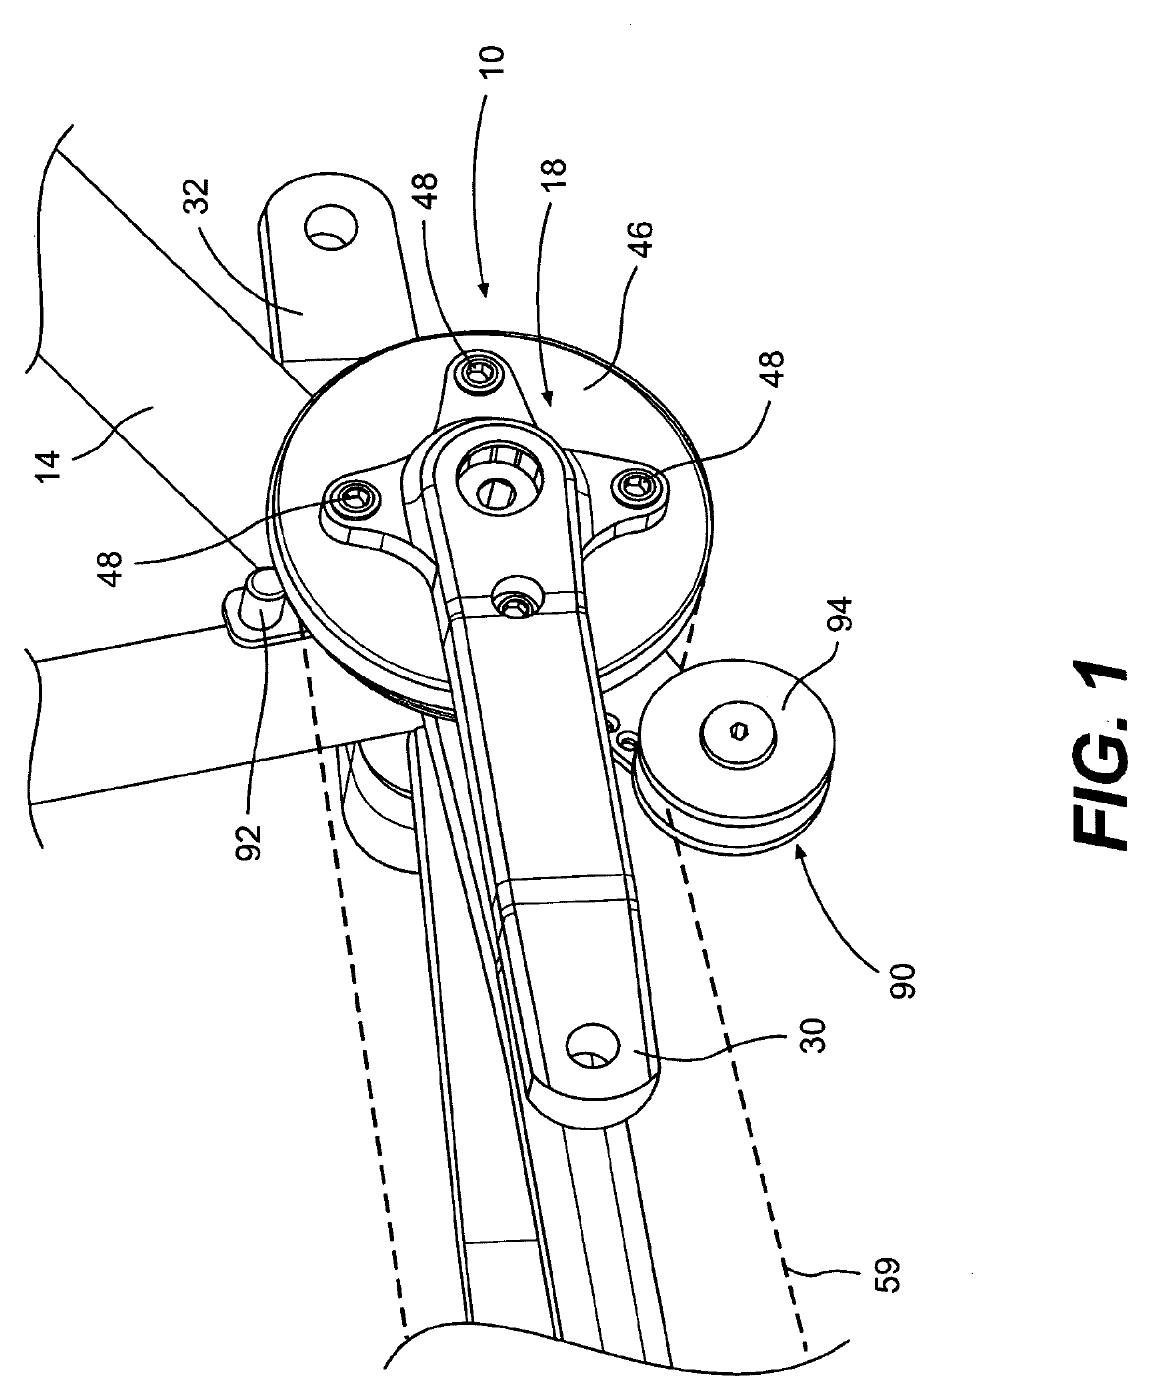
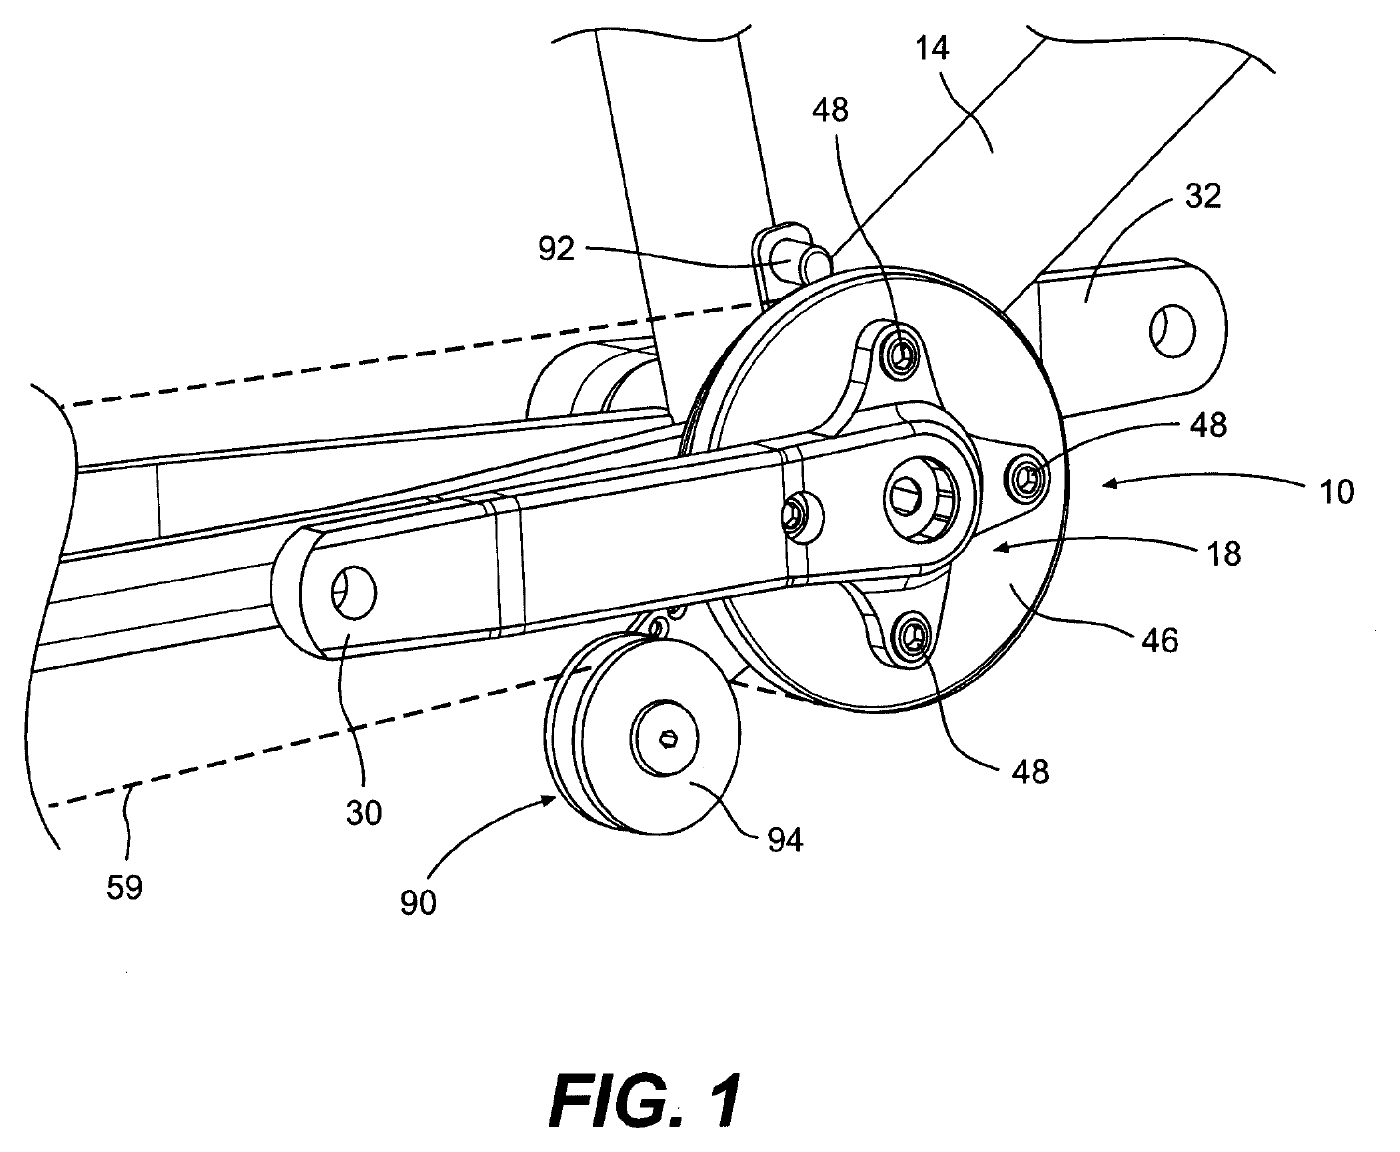
Add searchUrl override field; rotate HammerSchmidt figure 90deg CW
New optional D field, searchUrl: when set, it replaces the card's
auto-built "Search related patents on Google Patents" link with a
specific URL. Wired in ahead of every other branch of that link's
logic (nums/num/non-US jurisdiction), since it's a deliberate
editorial choice, not something a numbered-patent addition later
should silently override.

Applied to the JBX1 "Breezer 1" entry (num:null, st:"unknown"): its
auto-built query would search on "Joe Breeze" (how he's credited in
`a`) rather than his full legal name, so it was pointed instead at
https://patents.google.com/?inventor=Joseph+T.+Breeze directly.

Rotated pictures/US7712566B2.png (Schlumpf planetary crank drive ->
SRAM HammerSchmidt, US 7,712,566) 90 degrees clockwise -- the source
drawing sheet was sideways; verified the result reads right-side up
before committing.

Documented searchUrl in CLAUDE.md's D schema block.

Claude-Session: https://claude.ai/code/session_016jsWfaWRTj8nL3NFjZgJTX

diff --git a/index.html b/index.html
@@ -1037,7 +1037,7 @@ const D = [
   {"y":2022,"g":null,"t":{"en":"Machine-learning suspension control (application)","fr":"Contrôle de suspension par apprentissage automatique (demande)"},"a":"Shimano","num":null,"cat":"emtb","st":"pending","exp":null,"b":[],"who":["Shimano"],"conf":"v","s":{"en":"Published January 2024: sensors for speed, cadence, torque, tire pressure, braking and attitude — plus a forward-facing camera — feeding a trained model that adjusts suspension via motors and solenoids in real time.","fr":"Publiée en janvier 2024 : des capteurs de vitesse, cadence, couple, pression de pneu, freinage et assiette — plus une caméra orientée vers l'avant — alimentant un modèle entraîné qui ajuste la suspension via des moteurs et solénoïdes en temps réel."},"w":{"en":"The damping tune as a neural network. When the algorithm is the invention, the patent office becomes the new kingmaker.","fr":"Le réglage d'amortissement comme réseau de neurones. Quand l'algorithme est l'invention, l'office des brevets devient le nouveau faiseur de rois."}},
   {"y":2024,"g":2025,"t":{"en":"Wheel motor-brake unit (US 12,491,966)","fr":"Unité moteur-frein de roue (US 12,491,966)"},"a":"Mikel Fauri / Porsche AG","num":"12491966","cat":"emtb","st":"active","exp":2044,"j":"DE","b":["priorart"],"who":["Porsche"],"conf":"v","s":{"en":"A disk-rotor motor, planetary transmission and disc brake packaged into one wheel hub with regenerative braking — released publicly as Porsche and PON wound down their eMTB project. Inventor Mikel Fauri has since become Head of Electric Propulsion at McLaren.","fr":"Un moteur à rotor disque, une transmission planétaire et un frein à disque intégrés dans un seul moyeu de roue avec freinage régénératif — rendu public alors que Porsche et PON mettaient fin à leur projet de VTTAE. L'inventeur Mikel Fauri est depuis devenu responsable de la propulsion électrique chez McLaren."},"w":{"en":"Ferdinand Porsche built one of the first electric bicycles in 1893 and the first wheel-hub motor in 1900. This filing closes a 130-year family loop.","fr":"Ferdinand Porsche a construit l'un des premiers vélos électriques en 1893 et le premier moteur-moyeu de roue en 1900. Ce dépôt boucle une boucle familiale de 130 ans."}},
   {"y":1938,"g":1939,"t":{"en":"Schwinn cantilever frame (US 2,151,533)","fr":"Cadre cantilever Schwinn (US 2,151,533)"},"a":"Frank W. Schwinn / Arnold, Schwinn & Co.","num":"2151533","cat":"frame","st":"expired","exp":1956,"b":[],"who":["Schwinn","Frank W. Schwinn"],"conf":"v","s":{"en":"A frame construction adding a curved strut from the seat cluster down to the rear axle area, first used on the 1938 Autocycle line and later the Black Phantom and Sting-Ray. Filed the same day as the Spring Fork patent below (March 3, 1938). Pre-1995 US utility patents ran 17 years from grant rather than 20 years from filing, so this one lapsed in 1956.","fr":"Une construction de cadre ajoutant un étrésillon courbe du groupe de selle jusqu'à la zone de l'axe arrière, utilisée d'abord sur la gamme Autocycle de 1938 puis sur le Black Phantom et le Sting-Ray. Déposé le même jour que le brevet de fourche à ressort ci-dessous (3 mars 1938). Les brevets d'utilité américains d'avant 1995 duraient 17 ans à compter de la délivrance plutôt que 20 ans à compter du dépôt, celui-ci s'est donc éteint en 1956."},"img":"pictures/US2151533A.png","imgAlt":{"en":"Sheet 1 of US 2,151,533, showing Fig. 1 (the complete cantilever frame with the curved strut 15 running from the seat cluster to the rear axle area) and Fig. 2 (a detail of the seat-cluster/strut junction), signed by inventor Frank W. Schwinn","fr":"Planche 1 du brevet US 2 151 533, montrant la Fig. 1 (le cadre cantilever complet avec l'étrésillon courbe 15 allant du groupe de selle jusqu'à la zone de l'axe arrière) et la Fig. 2 (un détail de la jonction groupe de selle/étrésillon), signée par l'inventeur Frank W. Schwinn"},"w":{"en":"'Nearly every bicycle manufacturer' copied the cantilever silhouette once the patent expired — a plain, well-documented case of the atlas's own tagline in action, playing out two generations before anything else in this dataset. The atlas's earliest entries otherwise skip straight from 1890s bicycle-mechanics patents to 1970s mountain-bike-specific ones; this fills real ground in between.","fr":"« Presque chaque fabricant de vélos » a copié la silhouette cantilever une fois le brevet expiré — un cas simple et bien documenté du slogan même de cet atlas en action, se déroulant deux générations avant tout autre exemple de ce jeu de données. Les premières fiches de l'atlas passent sinon directement des brevets de mécanique de vélo des années 1890 à ceux spécifiques au VTT des années 1970 ; celle-ci comble un véritable espace entre les deux."}},
-  {"y":1977,"g":null,"t":{"en":"JBX1 \"Breezer 1\" — the frame, not a patent","fr":"JBX1 « Breezer 1 » — le cadre, pas un brevet"},"a":"Joe Breeze (Fairfax, CA)","num":null,"cat":"frame","st":"unknown","exp":null,"b":[],"who":["Joe Breeze"],"conf":"v","s":{"en":"Hand-built by Joe Breeze in 1977, the JBX1 — later called the \"Breezer 1\" — was the first bicycle frame purpose-designed for off-road riding rather than a converted cruiser or road frame. Built for the Repack downhill races on Mount Tamalpais, it replaced the balloon-tire \"klunkers\" mountain bike racers had been adapting from 1930s-40s cruisers, using period components (Araya 26in steel rims, Phil Wood hubs, SunTour derailleurs, Dia-Compe brakes, motorcycle-derived riser bars and Magura levers). Breeze completed nine more Series I frames by early 1978. No patent was ever filed on the frame itself; Breezer #1 is held in the Smithsonian Institution's National Museum of American History.","fr":"Fabriqué à la main par Joe Breeze en 1977, le JBX1 — appelé plus tard « Breezer 1 » — fut le premier cadre de vélo conçu spécifiquement pour la pratique hors route plutôt qu'un cadre de cruiser ou de route converti. Construit pour les courses de descente Repack sur le mont Tamalpais, il a remplacé les « klunkers » à pneus ballon que les coureurs de vélo tout-terrain adaptaient jusque-là à partir de cruisers des années 1930-40, avec des composants d'époque (jantes acier Araya 26 po, moyeux Phil Wood, dérailleurs SunTour, freins Dia-Compe, guidon relevé et leviers Magura d'origine moto). Breeze a réalisé neuf autres cadres de la Série I au début de 1978. Aucun brevet n'a jamais été déposé sur le cadre lui-même ; le Breezer n°1 est conservé au National Museum of American History de la Smithsonian Institution."},"w":{"en":"The ancestor object every patent in this atlas's frame, suspension, and drivetrain categories ultimately descends from — the moment mountain biking became a purpose-built category rather than a set of modifications to an existing bike. The sport it launched went from a Marin County pastime to a UCI-sanctioned World Championship in 1990 (Durango, Colorado) and an Olympic discipline at the 1996 Atlanta Games in under twenty years.","fr":"L'objet ancêtre dont descendent en dernière analyse tous les brevets des catégories cadre, suspension et transmission de cet atlas — le moment où le VTT est devenu une catégorie conçue en tant que telle plutôt qu'un ensemble de modifications apportées à un vélo existant. Le sport qu'il a lancé est passé d'un passe-temps du comté de Marin à un championnat du monde sanctionné par l'UCI en 1990 (Durango, Colorado), puis à une discipline olympique aux Jeux d'Atlanta en 1996, en moins de vingt ans."}},
+{"y": 1977, "g": null, "t": {"en": "JBX1 \"Breezer 1\" — the frame, not a patent", "fr": "JBX1 « Breezer 1 » — le cadre, pas un brevet"}, "a": "Joe Breeze (Fairfax, CA)", "num": null, "cat": "frame", "st": "unknown", "exp": null, "b": [], "who": ["Joe Breeze"], "conf": "v", "s": {"en": "Hand-built by Joe Breeze in 1977, the JBX1 — later called the \"Breezer 1\" — was the first bicycle frame purpose-designed for off-road riding rather than a converted cruiser or road frame. Built for the Repack downhill races on Mount Tamalpais, it replaced the balloon-tire \"klunkers\" mountain bike racers had been adapting from 1930s-40s cruisers, using period components (Araya 26in steel rims, Phil Wood hubs, SunTour derailleurs, Dia-Compe brakes, motorcycle-derived riser bars and Magura levers). Breeze completed nine more Series I frames by early 1978. No patent was ever filed on the frame itself; Breezer #1 is held in the Smithsonian Institution's National Museum of American History.", "fr": "Fabriqué à la main par Joe Breeze en 1977, le JBX1 — appelé plus tard « Breezer 1 » — fut le premier cadre de vélo conçu spécifiquement pour la pratique hors route plutôt qu'un cadre de cruiser ou de route converti. Construit pour les courses de descente Repack sur le mont Tamalpais, il a remplacé les « klunkers » à pneus ballon que les coureurs de vélo tout-terrain adaptaient jusque-là à partir de cruisers des années 1930-40, avec des composants d'époque (jantes acier Araya 26 po, moyeux Phil Wood, dérailleurs SunTour, freins Dia-Compe, guidon relevé et leviers Magura d'origine moto). Breeze a réalisé neuf autres cadres de la Série I au début de 1978. Aucun brevet n'a jamais été déposé sur le cadre lui-même ; le Breezer n°1 est conservé au National Museum of American History de la Smithsonian Institution."}, "w": {"en": "The ancestor object every patent in this atlas's frame, suspension, and drivetrain categories ultimately descends from — the moment mountain biking became a purpose-built category rather than a set of modifications to an existing bike. The sport it launched went from a Marin County pastime to a UCI-sanctioned World Championship in 1990 (Durango, Colorado) and an Olympic discipline at the 1996 Atlanta Games in under twenty years.", "fr": "L'objet ancêtre dont descendent en dernière analyse tous les brevets des catégories cadre, suspension et transmission de cet atlas — le moment où le VTT est devenu une catégorie conçue en tant que telle plutôt qu'un ensemble de modifications apportées à un vélo existant. Le sport qu'il a lancé est passé d'un passe-temps du comté de Marin à un championnat du monde sanctionné par l'UCI en 1990 (Durango, Colorado), puis à une discipline olympique aux Jeux d'Atlanta en 1996, en moins de vingt ans."}, "searchUrl": "https://patents.google.com/?inventor=Joseph+T.+Breeze"},
   {"y":1983,"g":1985,"t":{"en":"Cannondale Optimum Oval Seatstays (US 4,513,985)","fr":"Haubans ovales optimisés Cannondale (US 4 513 985)"},"a":"David R. Graham / Cannondale Corporation","num":"4513985","cat":"frame","st":"expired","exp":2002,"b":[],"who":["Cannondale"],"conf":"v","img":"pictures/US4513985A.png","imgAlt":{"en":"Fig. 1 and Fig. 2 of US 4,513,985: the oval-cross-section seat stays (14) shown at the seat cluster junction and again near the dropout, with the horizontal diameter (Dh) and vertical diameter (Dv) of the oval called out","fr":"Fig. 1 et Fig. 2 du brevet US 4 513 985 : les haubans à section ovale (14) représentés à la jonction du point d'ancrage de la selle puis près de la patte de cadre, avec le diamètre horizontal (Dh) et le diamètre vertical (Dv) de l'ovale indiqués"},"s":{"en":"Filed January 6, 1983 and granted April 30, 1985 to Cannondale engineer David R. Graham, this patent claims bicycle seat stays that are oval in cross-section and oriented with the major axis horizontal — a shape that gives relatively greater lateral (side-to-side) stiffness and relatively less vertical (up-down) stiffness than a round tube of the same weight. Figures 1 and 2 show the oval profile carried from the seat cluster down to the dropouts, with horizontal (Dh) and vertical (Dv) diameters called out as separate claim dimensions. Pre-GATT filing, so the 17-year-from-grant term (not filing+20) applies; it lapsed in 2002.","fr":"Déposé le 6 janvier 1983 et délivré le 30 avril 1985 à David R. Graham, ingénieur chez Cannondale, ce brevet revendique des haubans de vélo de section ovale, orientés avec le grand axe à l'horizontale — une forme qui procure une rigidité latérale (côté à côté) relativement plus grande et une rigidité verticale (haut-bas) relativement moindre qu'un tube rond de même poids. Les figures 1 et 2 montrent le profil ovale conservé du point d'ancrage de la selle jusqu'aux pattes de cadre, avec des diamètres horizontal (Dh) et vertical (Dv) définis comme dimensions distinctes de la revendication. Dépôt antérieur au GATT, donc la durée de 17 ans à compter de la délivrance (et non dépôt+20) s'applique ; il s'est éteint en 2002."},"w":{"en":"One of the earliest patented examples of tube-shaping-for-ride-quality in the dataset, years before oversized aluminum tubing became Cannondale's signature. Trading vertical stiffness for lateral stiffness at the seatstay — rather than just making the tube bigger everywhere — is the same design logic that shows up decades later in compliance-tuned carbon stays; this patent is an early, explicit claim on that tradeoff rather than just a marketing description.","fr":"L'un des premiers exemples brevetés de mise en forme de tube pour la qualité de roulage dans cet atlas, des années avant que les tubes en aluminium surdimensionnés ne deviennent la signature de Cannondale. Échanger de la rigidité verticale contre de la rigidité latérale au niveau du hauban — plutôt que simplement agrandir le tube partout — relève de la même logique de conception que l'on retrouve des décennies plus tard dans les haubans carbone à flexion calibrée ; ce brevet en est une revendication précoce et explicite plutôt qu'un simple argument marketing."}},
   {"y":2000,"g":2002,"t":{"en":"Cannondale seat stay tire-clearance frame (US 6,497,427)","fr":"Cadre Cannondale à dégagement de pneu aux haubans (US 6 497 427)"},"a":"Christopher P. D'Alusio & Christopher A. Peck / Cannondale Corporation","num":"6497427","cat":"frame","st":"expired","exp":2020,"b":[],"who":["Cannondale"],"conf":"v","img":"pictures/US6497427B1.png","imgAlt":{"en":"Fig. 2 of US 6,497,427: rear view of the frame's seat stay tubes (32a/32b) converging toward the dropout (26), with the upper gap zone (34a) and lower gap zone (34b) bracketed to show where the minimum tire-clearance distance is measured","fr":"Fig. 2 du brevet US 6 497 427 : vue arrière des tubes de haubans du cadre (32a/32b) convergeant vers la patte de cadre (26), avec la zone de dégagement supérieure (34a) et la zone de dégagement inférieure (34b) indiquées par des accolades montrant où la distance minimale de dégagement du pneu est mesurée"},"s":{"en":"Filed as PCT application PCT/US00/15915 on June 9, 2000 and entering the US national stage in May 2001 (application 09/831,822), this patent claims a mountain bike 'diamond-type' frame whose seat stay tubes are spaced to keep a minimum gap distance of roughly 2 inches between their inner surfaces at the point where they pass the rear tire — specifically for frames built around a single rear disc brake rather than a rim brake, where tire and mud clearance at that pinch point is the practical constraint. The claims also bound the seat stay tubes' stiffness (modulus of elasticity times moment of inertia, roughly 1 to 10 lb×in²) rather than just their shape, tying the tire-clearance dimension to a specific stiffness range. Granted December 24, 2002, matching the grant year in the source description this entry was queued from. Term runs filing (PCT, 2000) + 20 = 2020.","fr":"Déposé comme demande PCT PCT/US00/15915 le 9 juin 2000 et entré en phase nationale américaine en mai 2001 (demande 09/831 822), ce brevet revendique un cadre de VTT de type « diamant » dont les tubes de haubans sont espacés pour maintenir une distance minimale d'environ 2 pouces entre leurs surfaces intérieures au point où ils longent le pneu arrière — spécifiquement pour des cadres conçus autour d'un frein à disque arrière unique plutôt qu'un frein sur jante, où le dégagement au pneu et à la boue à ce point d'étranglement est la contrainte pratique. Les revendications encadrent également la rigidité des tubes de haubans (module d'élasticité multiplié par le moment d'inertie, environ 1 à 10 lb×po²) plutôt que leur seule forme, liant la dimension de dégagement du pneu à une plage de rigidité précise. Délivré le 24 décembre 2002, ce qui correspond à l'année de délivrance de la description source à partir de laquelle cette fiche a été mise en attente. La durée court dépôt (PCT, 2000) + 20 = 2020."},"w":{"en":"A patent squarely about a tolerance, not a shape — proof that 'how much air gap a tire needs past a seat stay' was worth claiming as IP once disc brakes started reshaping rear-triangle geometry around 2000. D'Alusio is a recurring name in this atlas's frame patents — he's also a named inventor on Specialized's SWAT in-frame storage patent below, after later moving there — which makes this an early data point in his frame-engineering track record.","fr":"Un brevet portant carrément sur une tolérance, pas une forme — la preuve que « quel espace d'air un pneu a besoin en passant près d'un hauban » valait la peine d'être revendiqué comme propriété intellectuelle une fois que les freins à disque ont commencé à redessiner la géométrie du triangle arrière vers 2000. D'Alusio est un nom récurrent dans les brevets de cadre de cet atlas — il est aussi inventeur nommé sur le brevet de rangement intégré SWAT de Specialized ci-dessous, après être passé chez ce fabricant — ce qui fait de ce brevet un point de données précoce dans son parcours d'ingénierie de cadre."}},
   {"y":2015,"g":2019,"t":{"en":"Low-BB / short-crank geometry formula (US 10,252,768 + 11,479,322)","fr":"Formule de géométrie boîtier bas / manivelles courtes (US 10,252,768 + 11,479,322)"},"a":"Independent","num":"10252768","cat":"frame","st":"active","exp":2035,"b":["priorart"],"who":[],"conf":"v","img":"pictures/US10252768B2.png","imgAlt":{"en":"Fig. 1A of US 10,252,768: a full bicycle side elevation with the patent's claimed geometry dimensions labeled — bottom-bracket height (BH), the calculated 'practical bracket height' threshold (Bd), wheel radius (R), and crank length (L) measured from the bottom-bracket axle (19)","fr":"Fig. 1A du brevet US 10 252 768 : une élévation latérale complète du vélo avec les dimensions géométriques revendiquées par le brevet — hauteur du boîtier de pédalier (BH), le seuil calculé de « hauteur de boîtier pratique » (Bd), rayon de roue (R), et longueur de manivelle (L) mesurée depuis l'axe du boîtier de pédalier (19)"},"s":{"en":"A granted utility patent claiming mountain bikes by a *formula* — crank length ≤164mm combined with a calculated 'practical bracket height' threshold. A continuation, US 11,479,322 (granted 2022), extends the same formula-based claims.","fr":"Un brevet d'utilité délivré revendiquant les vélos de montagne par une *formule* — une longueur de manivelle ≤ 164 mm combinée à un seuil calculé de « hauteur de boîtier pratique ». Une continuation, US 11,479,322 (délivrée en 2022), étend les mêmes revendications fondées sur la formule."},"w":{"en":"A patent on geometry math itself. Engineers will argue about this one in the comments, which is exactly the point.","fr":"Un brevet sur les mathématiques de la géométrie elles-mêmes. Les ingénieurs vont se disputer à ce sujet dans les commentaires, ce qui est exactement le but."}},
@@ -2090,7 +2090,19 @@ function cardHTML(d){
   const numForUrl = d.num ? (pt==="design" ? `D${d.num}` : d.num) : null;
   const numPretty = numForUrl ? (/^[A-Z]{2}/.test(numForUrl)?numForUrl:`US ${numForUrl.replace(/(\d{1,2})(\d{3})(\d{3})$/,"$1,$2,$3")}`) : null;
   let gp;
-  if(d.nums&&d.nums.length>1){
+  /* d.searchUrl is an OPTIONAL per-entry override for the auto-built search
+     link below — for a no-patent-number entry, the auto-built query (built
+     from the assignee name and title) is a guess at what would actually
+     find the right person/company on Google Patents, and sometimes a
+     better, hand-picked query exists (e.g. an inventor-name search that the
+     auto-built one can't reconstruct on its own). When set, it wins over
+     every branch below, including the num/nums cases, since it's a
+     deliberate editorial choice about where "search related patents"
+     should point, not something to silently override with a numbered
+     patent link if one gets added later without updating this field too. */
+  if(d.searchUrl){
+    gp=`<a class="gp" href="${d.searchUrl}" target="_blank" rel="noopener">${t("searchRelatedGP")}</a>`;
+  } else if(d.nums&&d.nums.length>1){
     const links=d.nums.map(n=>{const{url,label}=numLink(n);return `<a class="gp gp-li" href="${url}" target="_blank" rel="noopener">${label} →</a>`;}).join("");
     gp=`<details class="gp-list"><summary>${t("allPatentsOnGP",d.nums.length)}</summary><div class="gp-links">${links}</div></details>`;
   } else if(d.num){

diff --git a/CLAUDE.md b/CLAUDE.md
@@ -159,8 +159,24 @@ take by default.
   w: {en:"Why it matters...", fr:"Pourquoi c'est important..."} // editorial payoff — what changed because of this patent
   // img: "pictures/US1234567A.png",   // OPTIONAL — only if a drawing was actually sourced and viewed — NOT translated
   // imgAlt: {en:"…", fr:"…"},         // required alongside img — describe what figure/number is shown, both languages
+  // searchUrl: "https://patents.google.com/?inventor=Jane+Doe", // OPTIONAL — see below — NOT translated
 }
 ```
+
+**`searchUrl`** overrides the card's auto-built "Search related patents on
+Google Patents" link with a specific URL you supply. The auto-built version
+(no `num`, US jurisdiction) constructs a query from the assignee name and
+title — a reasonable default, but sometimes a hand-picked query finds the
+right person or company far better than that guess can, most obviously an
+inventor-name search (`?inventor=First+M.+Last`) for a `num:null` entry
+where the actual patent hasn't been identified yet but the *inventor* is
+known — added first for Joe Breeze's JBX1 entry, whose real name (Joseph T.
+Breeze) differs from how he's credited (`a: "Joe Breeze"`), so the
+auto-built query would never have found it. `searchUrl` wins over every
+other branch of that link's logic, including a numbered/`nums` entry — set
+it deliberately, and update or remove it if a real patent number gets added
+to the same entry later, since nothing checks the two stay in sync
+automatically.
 
 **Expiration rule (`exp`):**
 - Filed **on or after June 8, 1995** (the post-GATT rule, which covers nearly
